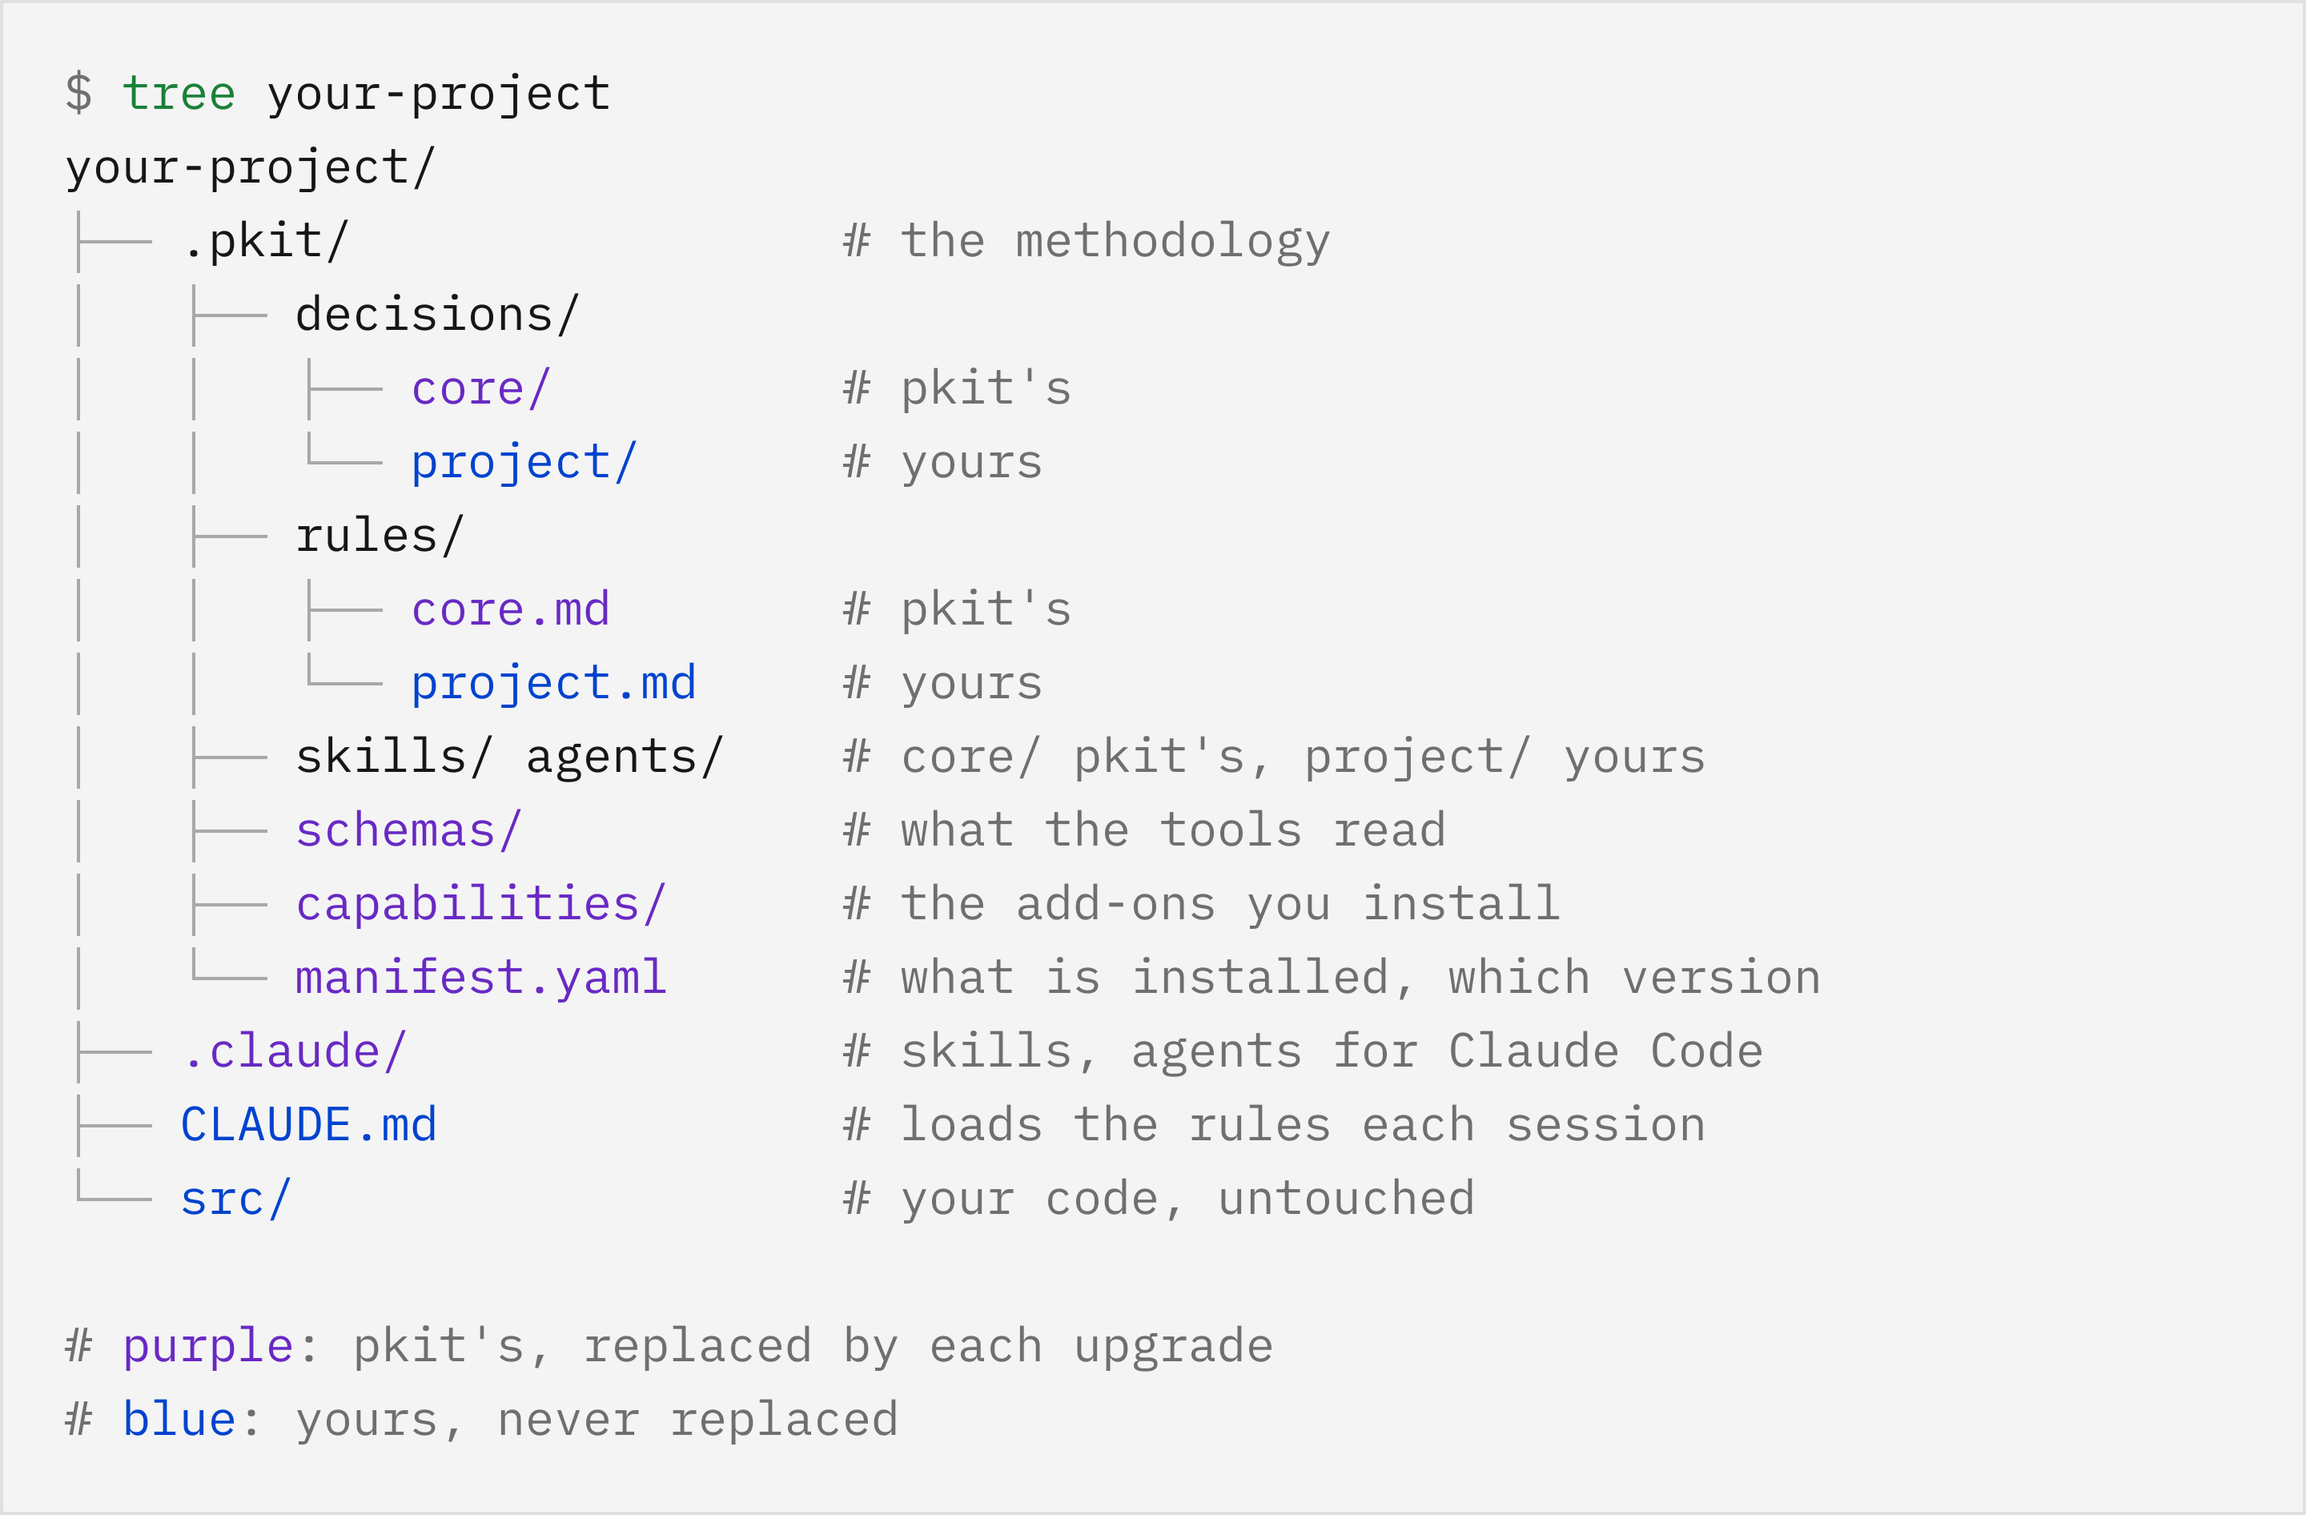
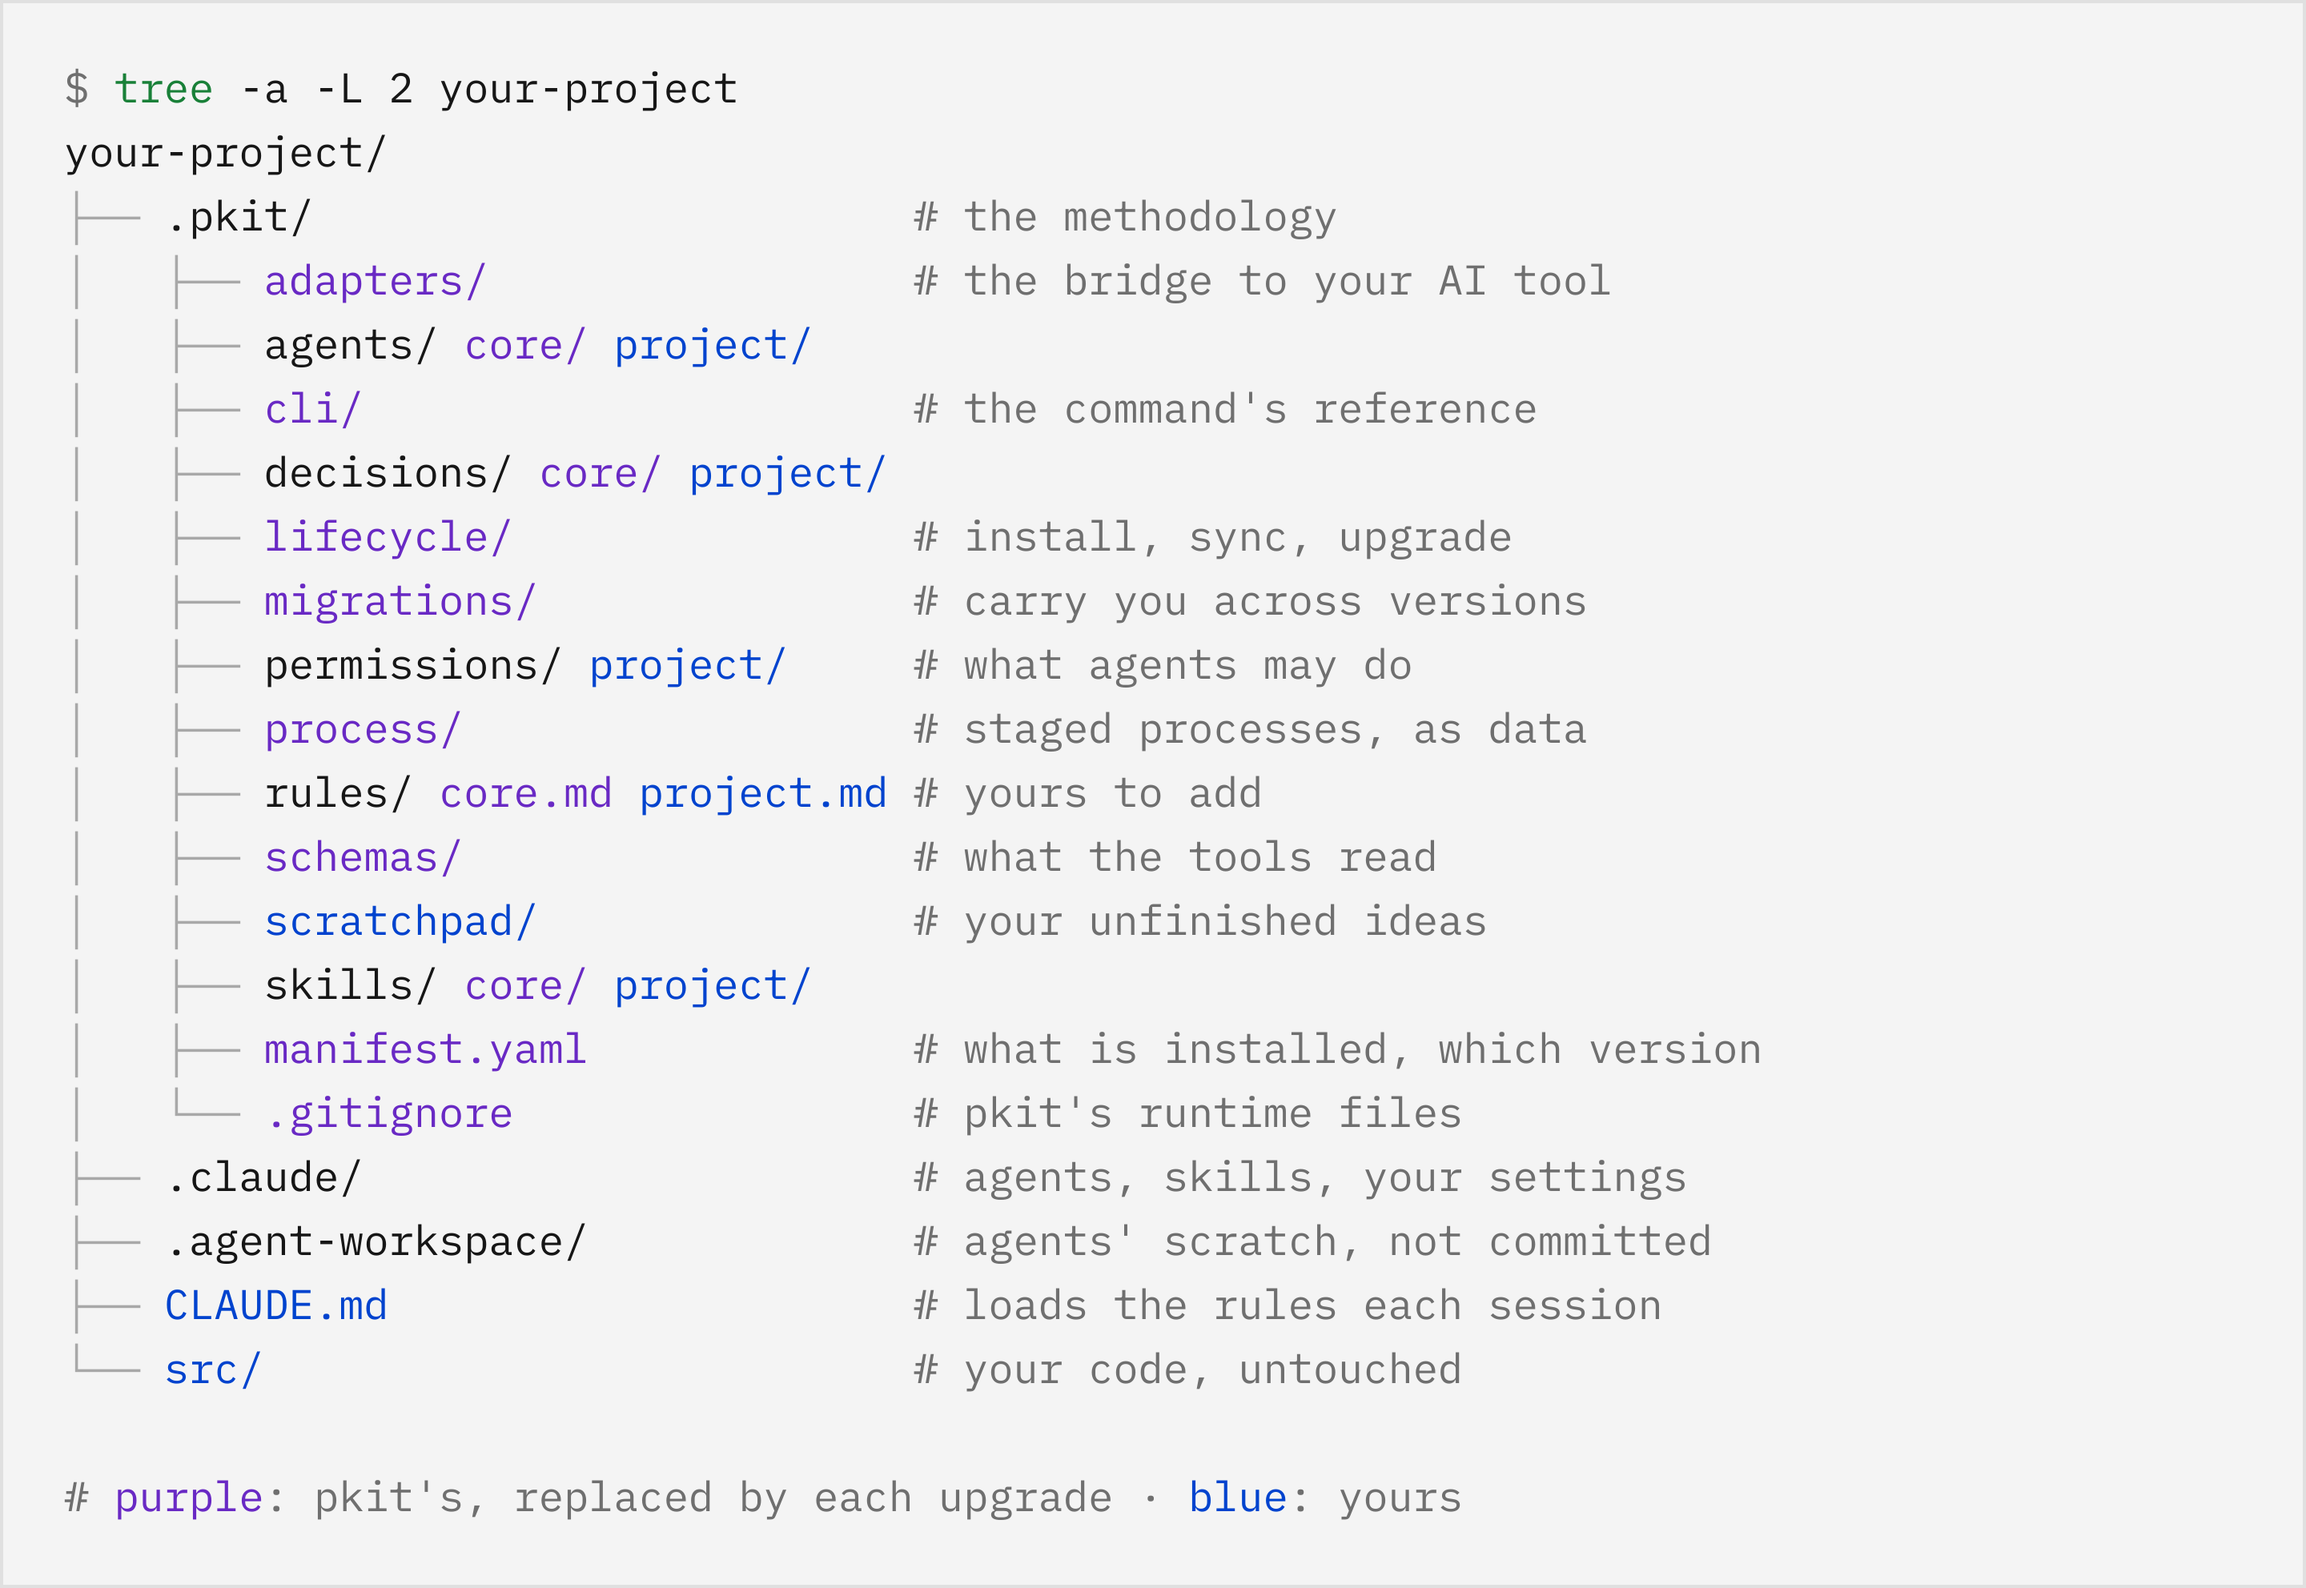
docs(scratchpad): the install slide lists every folder pkit init creates
Claude-Session: https://claude.ai/code/session_01Hv5eJmkUrhSLsS8iGmUprd

diff --git a/.pkit/scratchpad/active/2026-10-29-friday-talk.gen.py b/.pkit/scratchpad/active/2026-10-29-friday-talk.gen.py
@@ -464,7 +464,7 @@ def install(pid, y, v):
     hs = []
     yy = y
     if v.get("terminal"):
-        d, th = terminal(pid, MARGIN, y, w, v["terminal"])
+        d, th = terminal(pid, MARGIN, y, w, v["terminal"], font_size=v.get("font_size", 30))
         out.update(d)
         yy = y + th
     if v.get("highlight"):
@@ -487,7 +487,7 @@ def install(pid, y, v):
                 yy += GAP
     left_h = yy - y
     if v.get("listing"):
-        d, right_h = terminal(pid, MARGIN + SPAN8 + GUT, y, SPAN8, v["listing"], key="listing")
+        d, right_h = terminal(pid, MARGIN + SPAN8 + GUT, y, SPAN8, v["listing"], key="listing", font_size=v.get("font_size", 30))
     else:
         d, right_h = tree(pid, MARGIN + SPAN8 + GUT, y, [(r[0], [tuple(t) for t in r[1]], r[2]) for r in v["tree"]], [tuple(t) for t in v.get("legend") or []])
     out.update(d)
